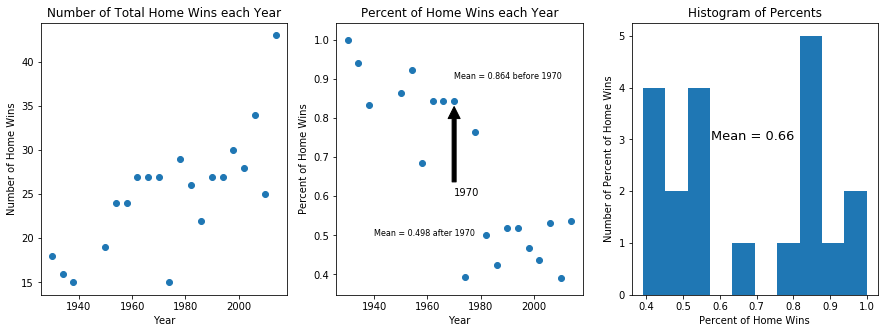
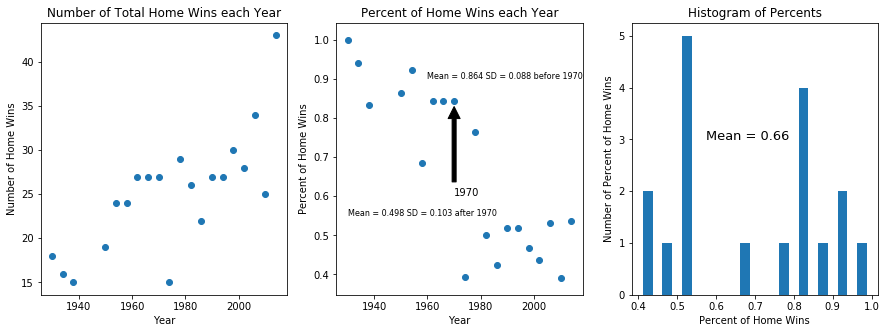
latest changes

diff --git a/_build/html/index.html b/_build/html/index.html
@@ -57,20 +57,23 @@
 </div>
 <div class="section" id="abstract">
 <h1>Abstract<a class="headerlink" href="#abstract" title="Permalink to this headline">¶</a></h1>
-<p>This website was created by Gavin Schaeferle and Austin &#8220;last name&#8221;. The purpose of this website is to analysis data about the Football World Cup. To do this, we set about answering one big question: <strong>How has the world cup changed over time?</strong> To answer this question, we focused on multiple aspects of our data, these subsections are</p>
+<p>This website was created by Gavin Schaeferle and Austin Hansen. The purpose of this website is to analysis data about the Football World Cup. To do this, we set about answering one big question: <strong>How has the world cup changed over time?</strong> To answer this question, we focused on multiple aspects of our data, these subsections are</p>
 <ol class="arabic simple">
 <li>&#8220;Does being the host country increase your chances of winning?&#8221;</li>
 <li>&#8220;Does being the home team in a match increase your chances of winning?&#8221;</li>
-<li>&#8220;Which country has won the most World Cups? And Which team won the most matches within the World Cup?</li>
+<li>&#8220;Which country has won the most World Cups? And Which team won the most matches within the World Cup?&#8221;</li>
+<li>&#8220;Which country has gotten to the most semi-finals?&#8221;</li>
 <li>&#8220;Which World Cup has had the most scoring?&#8221;</li>
-<li>&#8220;Which World Cup had the most autendous?&#8221;</li>
-<li>&#8220;Which World Cup had the most penenties?&#8221;</li>
+<li>&#8220;Which World Cup had the most attendence?&#8221;</li>
 </ol>
 <p>In the end, we found that the world cup has been increasing in popularity and increasing in the number of teams participating. However, the most interesting thing to notice, is how the world cup not only grow on it&#8217;s own, but also grew along side the world as a whole.</p>
 </div>
 <div class="section" id="data-accusition-and-manipulation">
 <h1>Data Accusition and Manipulation<a class="headerlink" href="#data-accusition-and-manipulation" title="Permalink to this headline">¶</a></h1>
 <p>The first step to any data science project, is to aquire some data. In our project, this was done be vigorously scrolling through the internet, trying to find any data on the World Cup. Our first stop was kaggle.com, because it has some really good data on a lot of different subjects, expetinoally sports. And after looking around for a while, we did in fact find the data we were looking for <a class="reference external" href="...">here</a>. On that website&#8217;s page, we found three datasets. The first had information on the gernal world cups from 1930 to 2014. The second had information on each match that happened at each world cup. The last on had information each people and couch of each team in each world cup. From this data, we had to do a little data monuvering to get them all together and working. This was done by doing a quick join in pandas like this:</p>
+<div class="highlight-python"><div class="highlight"><pre><span></span><span class="n">matchesJoin</span> <span class="o">=</span> <span class="n">matches</span><span class="o">.</span><span class="n">set_index</span><span class="p">([</span><span class="s1">&#39;Year&#39;</span><span class="p">])</span><span class="o">.</span><span class="n">join</span><span class="p">(</span><span class="n">cups</span><span class="o">.</span><span class="n">drop</span><span class="p">([</span><span class="s1">&#39;Attendance&#39;</span><span class="p">],</span><span class="n">axis</span> <span class="o">=</span> <span class="mi">1</span><span class="p">)</span><span class="o">.</span><span class="n">set_index</span><span class="p">([</span><span class="s1">&#39;Year&#39;</span><span class="p">]))</span>
+</pre></div>
+</div>
 <p>the dataframe <em>matches</em> is the dataframe with every match in each world cup. next, the set_index([&#8216;Year&#8217;]) is used to make sure the two dataframes have the same index. Next, within the join function, the <em>cups</em> dataframe contains the gernal information on each world cup. Notice the .drop function being called on the <em>cups</em> dataframe. This was done because both <em>matches</em> and <em>cups</em> have a column called &#8220;Attendance&#8221; so to make the join work, one of them had to go. We choose to drop the <em>cups</em> column because there are more match attendaces then cups so later on the <em>matches</em> attendance column will be used along with the other info in <em>matches</em> and <em>cups</em> so having that column is more important. Finally, we set the index of the <em>cups</em> dataframe to be the same as the <em>matches</em> dataframe and we got ourselves a good joined dataframe. This is just the beginning of all the data munipulations that are done to this dataframe to create the graphs later on in this website.</p>
 <p>The other big change to the data was adding a column for which team won each match. This may not at first seem like such a challenge, because there are columns of which how many times a team scored in the match. However, the score doesn&#8217;t take into account if the match was a tie at the end of regulation time. So one of the harder things to add within the data was a column that could tell into another column &#8220;win condition&#8221; and if that row&#8217;s cell had that countries name in it, then say true. Otherwise (if they did lose) then say False. More information on how this was done in the notebook</p>
 </div>
@@ -82,7 +85,7 @@
 <img alt="_images/hosttopfour.png" src="_images/hosttopfour.png" />
 </div>
 <p>From just this graph, it doesn&#8217;t seem like there is much evidence to conclude that meaning the host country means you will be in the semi-finals. While the true bar is slightly higher, it&#8217;s not enough to conclude any difference. What this graph is used for a start into some more interesting graphs comparing all matches to host country, which starts to get more interesting.</p>
-<p>The second one, we created three graphs that show three different things. The first shows the total host country wins over each world cup. The second shows the percent of wins by the host country each world cup. And finally the last one is a bit hard to put into words. Mainly, each block&#8217;s height is the the number of times a percent of wins by the host country was between 0.2-0.29; 0.3-0.39; ...</p>
+<p>The second one, we created three graphs that show three different things. The first shows the total host country wins over each world cup. The second shows the percent of wins by the host country each world cup. And finally the last one is a bit hard to put into words. Mainly, each block&#8217;s height is the the number of times a percent of wins by the host country was between 0.2-0.25; 0.25-0.30; ...</p>
 <div class="figure">
 <img alt="_images/hostratio.png" src="_images/hostratio.png" />
 </div>
@@ -113,7 +116,40 @@
 <div class="figure">
 <img alt="_images/matcheswinovertime.png" src="_images/matcheswinovertime.png" />
 </div>
-<p>this figure doesn&#8217;t have the interactiveness to it but the notebooke does here. What this interactive graph shows us this the change in development in countries over time. starting in 1930, only nine country even won a game. but by 2014, 27 teams had won a match in the world cup.</p>
+<p>this figure doesn&#8217;t have the interactiveness to it but the notebooke does here. What this interactive graph shows us this the change in development in countries over time. starting in 1930, only nine country even won a game. but by 2014, 27 teams had won a match in the world cup. This bigger increase in teams shows how football&#8217;s popularity has increased over time, and how countries have developed over time. One more interesting thing about the graphs is that you can see when the world cup team selection commities increased there selection of countires. this increase happend right around the 80&#8217;s where in 1978, 13 teams won a match from 1982 where 21 teams won a match. The team increase then doesn&#8217;t occur again until 1998 where 28 teams win a match. This again shows the development of the world cup as a popular sporting event across the world and the development of more and more countries, as more countries are elegable to partake in a heavly euopean/brazilian game.</p>
+</div>
+<div class="section" id="semi-finals">
+<h1>Semi-Finals<a class="headerlink" href="#semi-finals" title="Permalink to this headline">¶</a></h1>
+<p>The next graph answers the question: &#8220;Which country has gotten to the most semi-finals?&#8221;
+This secion only has one graph but it is an interaction graph. Again, you won&#8217;t be able to view on the website so instead, view it <a class="reference external" href="...">here</a>. This graph shows the amount of semi-final finishes per country over time. The picture below shows the total number of semi-final finishes between 1930 and 2014.</p>
+<div class="figure">
+<img alt="_images/semi-finals.png" src="_images/semi-finals.png" />
+</div>
+<p>The first instersting thing to note is that the first two world cups didn&#8217;t have a single repeat in semi-finalists. Showing that back then, no country was yet a dominiate force to be reckened with just yet. Also another thing about the first few world cups, Brazil (the soon to be number one football team) was not in the first two semi-finals. However, after that time, there semi-final placements would skyrocket at a fast pace. Another interesting thing about the graph is the creation of Germany FR after WWII, being very strong after a few rough no shows after the war. Actally beating Germany in number of semi-final place, just showing how long Germany was split up. Finally, looking at the world cup semi-finalist over time, there is definatly an increase in the number of teams that have gotten to the semi-finals. With a steady increase from the beginning, only stoping during WWII. Also fun fact, the U.S has only been in the semi-finals once, and it was the first world cup. You can actually see how the USA has stayed constant over all this time.</p>
+</div>
+<div class="section" id="scoreing-over-time">
+<h1>Scoreing Over Time<a class="headerlink" href="#scoreing-over-time" title="Permalink to this headline">¶</a></h1>
+<p>The next question we set out to answer, was whither the number of scoring has increased over time. And also, how has scoring effected the attendence of a match.</p>
+<p>This figure shows the number of scores per year. The second shows the average number of scores per game over time.</p>
+<div class="figure">
+<img alt="_images/scores.png" src="_images/scores.png" />
+</div>
+<p>What the first plot shows, is that as time yet on, more and more matches were played. This meant more points, and an increase of scores over time. This graph highlights the increase populatiy of the world cup. The other graph shows how dominate the world cup teams were over time. in the first few cups, the games were averaging about 4 scores a game, which in football is quite high on average. This shows that the few teams that were playing, the scoring was very high and possible one sided. If it wasn&#8217;t one sided then at the very least it was a lot of scoring on both teams. Continueing to later years, the amount of scores per game goes lower and lower. This contrasted with the first few world cups shows that, over time, the teams got so good at predicting the other teams moves, that most games were a stand still going to the end with an average of one point per time over and average 2 points. So from both of these graphs, it can be shown that as time went on, more games were played, and the teams were more compitive.</p>
+<p>Also related to this section is the attendence per game vs. scoring. The attendence data will be seen in more detail later on, but for now, let&#8217;s look at how the attendence vs. scoring has changed. This figure has three plots, the first looks at attendence per game over time, the second looks at attendence per game vs total scores, and finally a plot on attendence per game vs scores per game.</p>
+<div class="figure">
+<img alt="_images/attscore.png" src="_images/attscore.png" />
+</div>
+<p>The first graph we&#8217;ll look at later in the website. as for the other two, there does seem to be the ever so common postive slope for total and the negative slope for average/ratio. To further clarify this, the second graph has a negative slope as there are more scores. This happened because as the world cup got more popular, more people showed up at a game. Yet at the same time, more matches were played. So this increase comes from more popularity in the world cup along with more matches per world cup. The third graph shows how as the average score per game goes up, the average attendence of said game goes down. This can be explained like the other figure above. As the world cup got popular (an increase in attendence) the teams started getting more competative and scoring less per game. So this would create a negative coorelation between average attendence per game and average scores per game. The one point we&#8217;d like to mention is the 1994 point at the top. This point is significantly higher than any other point. After some investigation, it became clear that 1994 was the most attendened world cup ever! This would explain the high average attendence per match as well as the weirdly high average attendves per game vs total scores and vs average scores per game. More about that later.</p>
+</div>
+<div class="section" id="conclusion">
+<h1>Conclusion<a class="headerlink" href="#conclusion" title="Permalink to this headline">¶</a></h1>
+<ol class="arabic simple">
+<li>Being the Host country does not increase your chance of winning. Even as time went on, the host country never really had any adventage, even though the average percent of wins were above 50%</li>
+<li>Being the home team did at one point increase your chance of winning. But now the home and away teams a much more evenly spaced.</li>
+<li>As the world cup got more popular, more teams starting showing up and winning matches.</li>
+</ol>
+<p>#. Over time, the world cup has gotten more matches while scoring less per game.
+#.</p>
 </div>
 
 
@@ -131,6 +167,9 @@
 <li><a class="reference internal" href="#host-country-data">Host Country Data</a></li>
 <li><a class="reference internal" href="#home-team-data">Home Team Data</a></li>
 <li><a class="reference internal" href="#country-wins">Country Wins</a></li>
+<li><a class="reference internal" href="#semi-finals">Semi-Finals</a></li>
+<li><a class="reference internal" href="#scoreing-over-time">Scoreing Over Time</a></li>
+<li><a class="reference internal" href="#conclusion">Conclusion</a></li>
 </ul>
 <div class="relations">
 <h3>Related Topics</h3>

diff --git a/_build/html/searchindex.js b/_build/html/searchindex.js
@@ -1,1 +1,1 @@
-Search.setIndex({docnames:["MyWebSite/index","index"],envversion:51,filenames:["MyWebSite/index.rst","index.rst"],objects:{},objnames:{},objtypes:{},terms:{"final":[0,1],"function":[0,1],"import":[0,1],"true":1,"try":[0,1],"while":[0,1],And:[0,1],But:1,Going:1,One:1,The:[0,1],With:1,about:[0,1],account:1,add:1,adding:1,advantag:1,after:[0,1],again:1,agru:1,all:[0,1],almost:1,along:[0,1],also:[0,1],although:1,analysi:[0,1],ani:[0,1],anoth:1,answer:[0,1],aquir:[0,1],around:[0,1],aspect:[0,1],attend:[0,1],attendac:[0,1],austin:[0,1],autend:[0,1],axi:0,backgroup:1,bar:1,becaus:[0,1],been:[0,1],befor:1,begin:[0,1],being:[0,1],between:1,big:[0,1],bit:1,block:[0,1],both:[0,1],broader:1,call:[0,1],can:1,cell:1,certain:1,challeng:1,chanc:[0,1],chang:[0,1],choos:[0,1],clear:1,clearli:1,close:1,closer:1,code:0,column:[0,1],com:[0,1],compar:1,conclud:1,condit:1,contain:[0,1],context:1,contrast:1,couch:[0,1],could:1,countir:1,creat:[0,1],cup:[0,1],dai:1,datafram:[0,1],dataset:[0,1],detail:1,deveat:1,develop:1,deviat:1,did:[0,1],differ:[0,1],doe:[0,1],doesn:1,doing:[0,1],domin:1,done:[0,1],down:1,drop:[0,1],each:[0,1],eight:1,either:1,end:[0,1],enough:1,even:1,evenli:1,everi:[0,1],evid:1,expetino:[0,1],fact:[0,1],fals:1,few:1,field:1,figur:1,find:[0,1],first:[0,1],focus:[0,1],found:[0,1],four:[0,1],from:[0,1],game:1,gather:1,gavin:[0,1],gener:1,gernal:[0,1],get:[0,1],give:1,gone:1,good:[0,1],got:[0,1],gotten:1,graph:[0,1],greater:1,grew:[0,1],grow:[0,1],had:[0,1],happen:[0,1],hard:1,harder:1,has:[0,1],have:[0,1],haven:1,height:1,here:[0,1],higher:1,histogram:1,home:0,hostcountri:0,how:[0,1],howev:[0,1],importantli:1,increas:[0,1],index:[0,1],info:[0,1],inform:[0,1],interact:1,interest:[0,1],internet:[0,1],invers:1,ipynb:0,isn:1,join:[0,1],just:[0,1],kaggl:[0,1],last:[0,1],later:[0,1],let:1,like:[0,1],linear:1,littl:[0,1],look:[0,1],lose:1,lot:[0,1],made:[0,1],mai:1,mainli:1,make:[0,1],mani:1,match:[0,1],matchesjoin:0,mean:1,modul:[0,1],monuv:[0,1],more:[0,1],most:[0,1],much:1,multipl:[0,1],munipul:[0,1],name:[0,1],next:[0,1],nine:1,note:1,notebook:[0,1],notic:[0,1],now:1,number:[0,1],off:1,often:1,one:[0,1],onli:[0,1],other:[0,1],otherwis:1,our:[0,1],ourselv:[0,1],out:1,over:[0,1],overal:1,own:[0,1],page:[0,1],panda:[0,1],particip:[0,1],pattern:1,penenti:[0,1],peopl:[0,1],percent:1,plai:1,plu:1,point:1,popular:[0,1],postiv:1,precent:1,project:[0,1],purpos:[0,1],put:1,python:0,question:[0,1],quick:[0,1],random:1,rate:1,ratio:1,realli:[0,1],regardless:1,regul:1,row:1,sai:1,said:1,same:[0,1],scatter:1,schaeferl:[0,1],scienc:[0,1],score:[0,1],scroll:[0,1],search:[0,1],second:[0,1],see:1,seem:1,select:1,semi:1,set:[0,1],set_index:[0,1],show:[0,1],shown:1,side:[0,1],signfic:1,signific:1,similar:1,slight:1,slightli:1,slope:1,some:[0,1],specifc:1,sport:[0,1],standerd:1,start:[0,1],statu:1,step:[0,1],stop:[0,1],subject:[0,1],subsect:[0,1],sure:[0,1],take:1,team:0,tell:1,thei:1,them:[0,1],thi:[0,1],thing:[0,1],three:[0,1],through:[0,1],tie:1,time:[0,1],togeth:[0,1],total:1,two:[0,1],used:[0,1],veri:1,view:1,vigor:[0,1],websit:[0,1],went:1,were:[0,1],what:1,which:[0,1],whither:1,who:1,whole:[0,1],win:0,within:[0,1],won:[0,1],word:1,work:[0,1],world:[0,1],worldcupdata:0,would:1,year:[0,1],yet:1,you:1,your:[0,1]},titles:["Welcome to FootBall Visualzation&#8217;s documentation!","Welcome to FootBall Visualzation!"],titleterms:{"abstract":[0,1],accusit:[0,1],countri:[0,1],data:[0,1],document:0,footbal:[0,1],home:1,host:[0,1],indic:[0,1],manipul:1,tabl:[0,1],team:1,visualz:[0,1],welcom:[0,1],win:1}})
+Search.setIndex({docnames:["MyWebSite/index","index"],envversion:51,filenames:["MyWebSite/index.rst","index.rst"],objects:{},objnames:{},objtypes:{},terms:{"final":0,"function":[0,1],"import":[0,1],"long":1,"true":1,"try":[0,1],"while":[0,1],And:[0,1],Being:1,But:1,Going:1,One:1,The:[0,1],With:1,abl:1,about:[0,1],abov:1,account:1,across:1,actal:1,actual:1,add:1,adding:1,advantag:1,adventag:1,after:[0,1],again:1,agru:1,all:[0,1],almost:1,along:[0,1],also:[0,1],although:1,amount:1,analysi:[0,1],ani:[0,1],anoth:1,answer:[0,1],aquir:[0,1],around:[0,1],aspect:[0,1],attend:[0,1],attendac:[0,1],attenden:1,attendv:1,austin:[0,1],autend:0,averag:1,awai:1,axi:[0,1],back:1,backgroup:1,bar:1,beat:1,becam:1,becaus:[0,1],been:[0,1],befor:1,begin:[0,1],being:[0,1],below:1,between:1,big:[0,1],bigger:1,bit:1,block:[0,1],both:[0,1],brazil:1,brazilian:1,broader:1,call:[0,1],can:1,cell:1,certain:1,challeng:1,chanc:[0,1],chang:[0,1],choos:[0,1],clarifi:1,clear:1,clearli:1,close:1,closer:1,code:0,column:[0,1],com:[0,1],come:1,commiti:1,common:1,compar:1,compet:1,compit:1,conclud:1,condit:1,constant:1,contain:[0,1],context:1,continu:1,contrast:1,coorel:1,couch:[0,1],could:1,countir:1,creat:[0,1],creation:1,cup:[0,1],dai:1,datafram:[0,1],dataset:[0,1],definatli:1,detail:1,deveat:1,develop:1,deviat:1,did:[0,1],didn:1,differ:[0,1],doe:[0,1],doesn:1,doing:[0,1],domin:1,domini:1,done:[0,1],down:1,drop:[0,1],dure:1,each:[0,1],effect:1,eight:1,either:1,eleg:1,end:[0,1],enough:1,euopean:1,even:1,evenli:1,event:1,ever:1,everi:[0,1],evid:1,expetino:[0,1],explain:1,fact:[0,1],fals:1,fast:1,few:1,field:1,figur:1,finalist:1,find:[0,1],finish:1,first:[0,1],focus:[0,1],forc:1,found:[0,1],four:[0,1],from:[0,1],fun:1,further:1,game:1,gather:1,gavin:[0,1],gener:1,germani:1,gernal:[0,1],get:[0,1],give:1,goe:1,going:1,gone:1,good:[0,1],got:[0,1],gotten:1,graph:[0,1],greater:1,grew:[0,1],grow:[0,1],had:[0,1],hansen:1,happen:[0,1],happend:1,hard:1,harder:1,has:[0,1],have:[0,1],haven:1,heavli:1,height:1,here:[0,1],high:1,higher:1,highlight:1,histogram:1,home:0,hostcountri:0,how:[0,1],howev:[0,1],importantli:1,increas:[0,1],index:[0,1],info:[0,1],inform:[0,1],instead:1,insterst:1,interact:1,interest:[0,1],internet:[0,1],invers:1,investig:1,ipynb:0,isn:1,join:[0,1],just:[0,1],kaggl:[0,1],last:[0,1],later:[0,1],least:1,less:1,let:1,like:[0,1],linear:1,littl:[0,1],look:[0,1],lose:1,lot:[0,1],lower:1,made:[0,1],mai:1,mainli:1,make:[0,1],mani:1,match:[0,1],matchesjoin:[0,1],mean:1,meant:1,mention:1,modul:[0,1],monuv:[0,1],more:[0,1],most:[0,1],move:1,much:1,multipl:[0,1],munipul:[0,1],name:[0,1],neg:1,never:1,next:[0,1],nine:1,note:1,notebook:[0,1],notic:[0,1],now:1,number:[0,1],occur:1,off:1,often:1,onc:1,one:[0,1],onli:[0,1],other:[0,1],otherwis:1,our:[0,1],ourselv:[0,1],out:1,over:0,overal:1,own:[0,1],pace:1,page:[0,1],panda:[0,1],partak:1,particip:[0,1],pattern:1,penenti:0,peopl:[0,1],per:1,percent:1,pictur:1,place:1,placement:1,plai:1,plot:1,plu:1,point:1,popular:[0,1],populatii:1,possibl:1,postiv:1,precent:1,predict:1,project:[0,1],purpos:[0,1],put:1,python:0,question:[0,1],quick:[0,1],quit:1,random:1,rate:1,ratio:1,realli:[0,1],recken:1,regardless:1,regul:1,relat:1,repeat:1,right:1,rough:1,row:1,sai:1,said:1,same:[0,1],scatter:1,schaeferl:[0,1],scienc:[0,1],score:0,scroll:[0,1],search:[0,1],secion:1,second:[0,1],section:1,see:1,seem:1,seen:1,select:1,semi:[],set:[0,1],set_index:[0,1],show:[0,1],shown:1,side:[0,1],signfic:1,signific:1,significantli:1,similar:1,singl:1,skyrocket:1,slight:1,slightli:1,slope:1,some:[0,1],soon:1,space:1,specifc:1,split:1,sport:[0,1],stai:1,stand:1,standerd:1,start:[0,1],statu:1,steadi:1,step:[0,1],still:1,stop:[0,1],stope:1,strong:1,subject:[0,1],subsect:[0,1],sure:[0,1],take:1,team:0,tell:1,than:1,thei:1,them:[0,1],thi:[0,1],thing:[0,1],third:1,though:1,three:[0,1],through:[0,1],tie:1,time:0,togeth:[0,1],top:1,total:1,two:[0,1],until:1,usa:1,used:[0,1],veri:1,view:1,vigor:[0,1],war:1,wasn:1,websit:[0,1],weirdli:1,well:1,went:1,were:[0,1],what:1,when:1,where:1,which:[0,1],whither:1,who:1,whole:[0,1],win:0,within:[0,1],won:[0,1],word:1,work:[0,1],world:[0,1],worldcupdata:0,would:1,wwii:1,year:[0,1],yet:1,you:1,your:[0,1]},titles:["Welcome to FootBall Visualzation&#8217;s documentation!","Welcome to FootBall Visualzation!"],titleterms:{"abstract":[0,1],"final":1,accusit:[0,1],conclus:1,countri:[0,1],data:[0,1],document:0,footbal:[0,1],home:1,host:[0,1],indic:[0,1],manipul:1,over:1,score:1,semi:1,tabl:[0,1],team:1,time:1,visualz:[0,1],welcom:[0,1],win:1}})

diff --git a/index.rst b/index.rst
@@ -22,14 +22,15 @@ Indices and tables
 Abstract
 ====================
 
-This website was created by Gavin Schaeferle and Austin "last name". The purpose of this website is to analysis data about the Football World Cup. To do this, we set about answering one big question: **How has the world cup changed over time?** To answer this question, we focused on multiple aspects of our data, these subsections are 
+This website was created by Gavin Schaeferle and Austin Hansen. The purpose of this website is to analysis data about the Football World Cup. To do this, we set about answering one big question: **How has the world cup changed over time?** To answer this question, we focused on multiple aspects of our data, these subsections are 
 
 #. "Does being the host country increase your chances of winning?" 
 #. "Does being the home team in a match increase your chances of winning?"
-#. "Which country has won the most World Cups? And Which team won the most matches within the World Cup?
+#. "Which country has won the most World Cups? And Which team won the most matches within the World Cup?"
+#. "Which country has gotten to the most semi-finals?"
 #. "Which World Cup has had the most scoring?"
-#. "Which World Cup had the most autendous?"
-#. "Which World Cup had the most penenties?"
+#. "Which World Cup had the most attendence?"
+
 
 In the end, we found that the world cup has been increasing in popularity and increasing in the number of teams participating. However, the most interesting thing to notice, is how the world cup not only grow on it's own, but also grew along side the world as a whole. 
 
@@ -38,6 +39,7 @@ Data Accusition and Manipulation
 The first step to any data science project, is to aquire some data. In our project, this was done be vigorously scrolling through the internet, trying to find any data on the World Cup. Our first stop was kaggle.com, because it has some really good data on a lot of different subjects, expetinoally sports. And after looking around for a while, we did in fact find the data we were looking for `here <...>`_. On that website's page, we found three datasets. The first had information on the gernal world cups from 1930 to 2014. The second had information on each match that happened at each world cup. The last on had information each people and couch of each team in each world cup. From this data, we had to do a little data monuvering to get them all together and working. This was done by doing a quick join in pandas like this: 
 
 .. code-block:: python
+
 	matchesJoin = matches.set_index(['Year']).join(cups.drop(['Attendance'],axis = 1).set_index(['Year']))
 
 the dataframe *matches* is the dataframe with every match in each world cup. next, the set_index(['Year']) is used to make sure the two dataframes have the same index. Next, within the join function, the *cups* dataframe contains the gernal information on each world cup. Notice the .drop function being called on the *cups* dataframe. This was done because both *matches* and *cups* have a column called "Attendance" so to make the join work, one of them had to go. We choose to drop the *cups* column because there are more match attendaces then cups so later on the *matches* attendance column will be used along with the other info in *matches* and *cups* so having that column is more important. Finally, we set the index of the *cups* dataframe to be the same as the *matches* dataframe and we got ourselves a good joined dataframe. This is just the beginning of all the data munipulations that are done to this dataframe to create the graphs later on in this website. 
@@ -55,7 +57,7 @@ From this analysis we created two graphs. The first one shows the number of time
 
 From just this graph, it doesn't seem like there is much evidence to conclude that meaning the host country means you will be in the semi-finals. While the true bar is slightly higher, it's not enough to conclude any difference. What this graph is used for a start into some more interesting graphs comparing all matches to host country, which starts to get more interesting.
 
-The second one, we created three graphs that show three different things. The first shows the total host country wins over each world cup. The second shows the percent of wins by the host country each world cup. And finally the last one is a bit hard to put into words. Mainly, each block's height is the the number of times a percent of wins by the host country was between 0.2-0.29; 0.3-0.39; ... 
+The second one, we created three graphs that show three different things. The first shows the total host country wins over each world cup. The second shows the percent of wins by the host country each world cup. And finally the last one is a bit hard to put into words. Mainly, each block's height is the the number of times a percent of wins by the host country was between 0.2-0.25; 0.25-0.30; ... 
 
 .. figure:: image/hostratio.png
 
@@ -91,7 +93,43 @@ The final one we did was create a interactive graph that shows a different graph
 
 .. figure:: image/matcheswinovertime.png 
 
-this figure doesn't have the interactiveness to it but the notebooke does here. What this interactive graph shows us this the change in development in countries over time. starting in 1930, only nine country even won a game. but by 2014, 27 teams had won a match in the world cup. 
+this figure doesn't have the interactiveness to it but the notebooke does here. What this interactive graph shows us this the change in development in countries over time. starting in 1930, only nine country even won a game. but by 2014, 27 teams had won a match in the world cup. This bigger increase in teams shows how football's popularity has increased over time, and how countries have developed over time. One more interesting thing about the graphs is that you can see when the world cup team selection commities increased there selection of countires. this increase happend right around the 80's where in 1978, 13 teams won a match from 1982 where 21 teams won a match. The team increase then doesn't occur again until 1998 where 28 teams win a match. This again shows the development of the world cup as a popular sporting event across the world and the development of more and more countries, as more countries are elegable to partake in a heavly euopean/brazilian game. 
+
+Semi-Finals
+==================
+The next graph answers the question: "Which country has gotten to the most semi-finals?"
+This secion only has one graph but it is an interaction graph. Again, you won't be able to view on the website so instead, view it `here <...>`_. This graph shows the amount of semi-final finishes per country over time. The picture below shows the total number of semi-final finishes between 1930 and 2014. 
+
+.. figure:: image/semi-finals.png
+
+The first instersting thing to note is that the first two world cups didn't have a single repeat in semi-finalists. Showing that back then, no country was yet a dominiate force to be reckened with just yet. Also another thing about the first few world cups, Brazil (the soon to be number one football team) was not in the first two semi-finals. However, after that time, there semi-final placements would skyrocket at a fast pace. Another interesting thing about the graph is the creation of Germany FR after WWII, being very strong after a few rough no shows after the war. Actally beating Germany in number of semi-final place, just showing how long Germany was split up. Finally, looking at the world cup semi-finalist over time, there is definatly an increase in the number of teams that have gotten to the semi-finals. With a steady increase from the beginning, only stoping during WWII. Also fun fact, the U.S has only been in the semi-finals once, and it was the first world cup. You can actually see how the USA has stayed constant over all this time. 
 
 
 
+Scoreing Over Time
+============================
+The next question we set out to answer, was whither the number of scoring has increased over time. And also, how has scoring effected the attendence of a match.
+
+This figure shows the number of scores per year. The second shows the average number of scores per game over time. 
+
+.. figure:: image/scores.png
+
+What the first plot shows, is that as time yet on, more and more matches were played. This meant more points, and an increase of scores over time. This graph highlights the increase populatiy of the world cup. The other graph shows how dominate the world cup teams were over time. in the first few cups, the games were averaging about 4 scores a game, which in football is quite high on average. This shows that the few teams that were playing, the scoring was very high and possible one sided. If it wasn't one sided then at the very least it was a lot of scoring on both teams. Continueing to later years, the amount of scores per game goes lower and lower. This contrasted with the first few world cups shows that, over time, the teams got so good at predicting the other teams moves, that most games were a stand still going to the end with an average of one point per time over and average 2 points. So from both of these graphs, it can be shown that as time went on, more games were played, and the teams were more compitive. 
+
+Also related to this section is the attendence per game vs. scoring. The attendence data will be seen in more detail later on, but for now, let's look at how the attendence vs. scoring has changed. This figure has three plots, the first looks at attendence per game over time, the second looks at attendence per game vs total scores, and finally a plot on attendence per game vs scores per game. 
+
+.. figure:: image/attscore.png
+
+The first graph we'll look at later in the website. as for the other two, there does seem to be the ever so common postive slope for total and the negative slope for average/ratio. To further clarify this, the second graph has a negative slope as there are more scores. This happened because as the world cup got more popular, more people showed up at a game. Yet at the same time, more matches were played. So this increase comes from more popularity in the world cup along with more matches per world cup. The third graph shows how as the average score per game goes up, the average attendence of said game goes down. This can be explained like the other figure above. As the world cup got popular (an increase in attendence) the teams started getting more competative and scoring less per game. So this would create a negative coorelation between average attendence per game and average scores per game. The one point we'd like to mention is the 1994 point at the top. This point is significantly higher than any other point. After some investigation, it became clear that 1994 was the most attendened world cup ever! This would explain the high average attendence per match as well as the weirdly high average attendves per game vs total scores and vs average scores per game. More about that later.
+
+
+
+
+
+Conclusion
+===================
+#. Being the Host country does not increase your chance of winning. Even as time went on, the host country never really had any adventage, even though the average percent of wins were above 50%
+#. Being the home team did at one point increase your chance of winning. But now the home and away teams a much more evenly spaced. 
+#. As the world cup got more popular, more teams starting showing up and winning matches. 
+#. Over time, the world cup has gotten more matches while scoring less per game.
+#. 
